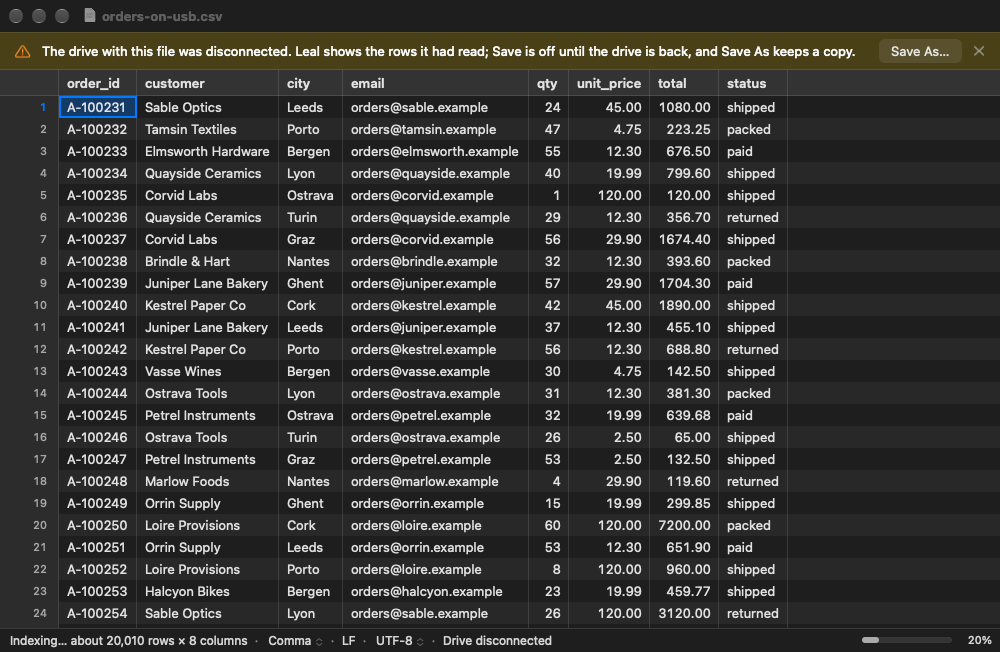
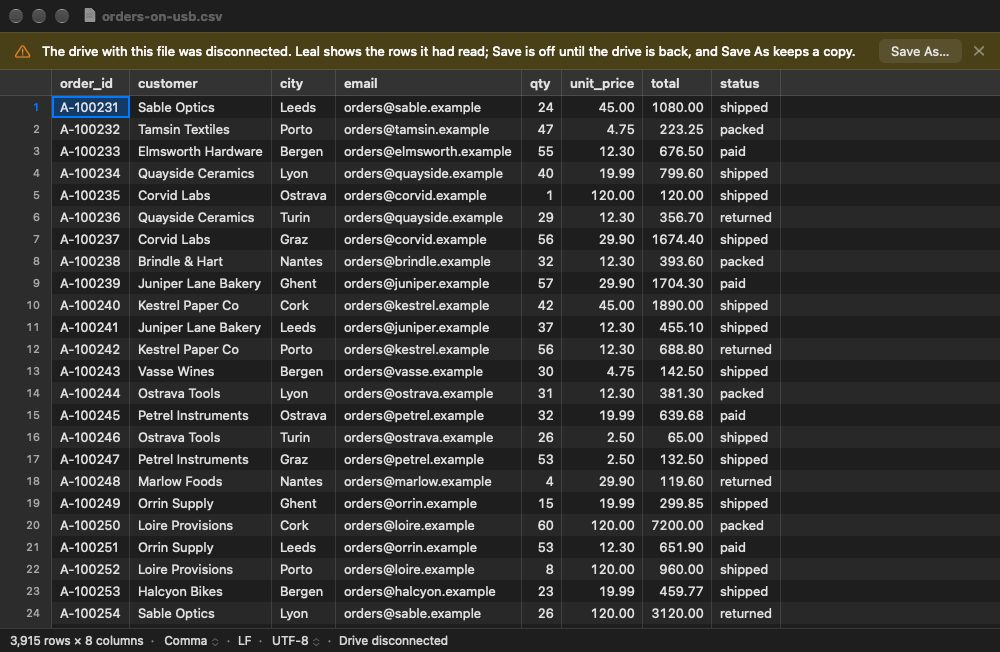
p1-review: Screenshots of the status bar notes, Drive not connected, Reload from Disk, Partly read and the controls turned off (review follow-up 5, cons-11)
Light and dark, added to docs/tasks/p1-gate-screenshots.md:
- the status bar's notes ("Working from a copy", "Encoding attribute
  ignored");
- "Drive not connected", from a real disk image ejected after the copy;
- File ▸ Reload from Disk, after another app changed the file;
- the "Partly read" banner;
- Treat As, Reopen with Encoding and the Header row turned off after a
  change while reading (the status bar's greyed menus, and View with its
  Treat As submenu).
The changed-while-reading and drive-disconnected shots are retaken after
follow-up 1: no "Indexing…" or stopped progress bar.

Scripted-run options for them (LEAL_BENCH only): -LealMainMenu (menus of
the menu bar, validated by the window; "_" for a space),
-LealSimulateReadError, and -LealSimulateFault none. MenuPicture now
draws key equivalents and submenu arrows and leaves out hidden and
alternate items.

Changed region(s): [[0.0, 0.1227, 0.806, 1.0], [0.961, 0.9509, 0.992, 1.0], [0.868, 0.9816, 0.899, 1.0]]

diff --git a/app/Sources/Bench/ScriptedRun.swift b/app/Sources/Bench/ScriptedRun.swift
@@ -39,7 +39,13 @@ import os
 ///   removable drive that vanishes, or whose file changes, at that byte
 ///   of the copy. Menus and sheets are windows of their own, which don't
 ///   draw offscreen: their content is drawn on a plain panel where they
-///   would be, as for the details popover.
+///   would be, as for the details popover. `-LealMainMenu File` (or
+///   paths such as `View,View/Treat_As`) draws menus of the menu bar, their
+///   items validated by the window, under the title bar;
+///   `-LealSimulateReadError YES` ends the index with a read error after
+///   first paint (`JobFailure.Failed`, the "Partly read" banner); and
+///   `-LealSimulateFault none` opens the file as if on a removable drive
+///   that doesn't fail.
 /// - `-LealReopen <n>`: once the document is indexed, close it and open
 ///   its file again, `n` times, then quit: each open's "Open to first rows"
 ///   signpost after the first is an open in a running app, without the
@@ -68,10 +74,11 @@ final class ScriptedRun {
         #if DEBUG
         guard let fault = defaults.string(forKey: "LealSimulateFault") else { return }
         let parts = fault.split(separator: ":")
-        guard parts.count == 2, let at = UInt64(parts[1]) else { return }
-        let simulated: SimulatedFault? = switch parts[0] {
-        case "disconnect": .disconnect(at: at)
-        case "change": .change(at: at)
+        guard fault == "none" || parts.count == 2, let at = parts.count == 2 ? UInt64(parts[1]) : 0 else { return }
+        let simulated: SimulatedFault?? = switch parts[0] {
+        case "disconnect": .some(.disconnect(at: at))
+        case "change": .some(.change(at: at))
+        case "none": .some(nil)
         default: nil
         }
         guard let simulated else { return }
@@ -202,6 +209,11 @@ final class ScriptedRun {
                 try? await Task.sleep(for: .milliseconds(20))
             }
         }
+        if has("LealSimulateReadError") {
+            // As if the drive had returned EIO part-way (app-8).
+            let model = content.model
+            model.jobEnded(JobFailure.Failed(message: "Input/output error"), job: .index, reading: model.readingID)
+        }
         if has("LealWaitForReview") {
             let deadline = Date().addingTimeInterval(30)
             while content.model.review == nil, Date() < deadline {
@@ -277,6 +289,31 @@ final class ScriptedRun {
                 panels.append((picture, NSRect(x: frame.minX - 8, y: frame.maxY + 4, width: size.width, height: size.height)))
             }
         }
+        if let paths = value(of: "LealMainMenu") {
+            // Each menu of the comma-separated paths, validated as the menu
+            // bar would (by the window's controller, where it handles the
+            // item); a submenu opens beside its item in the menu before it.
+            var frames: [String: NSRect] = [:]
+            for path in paths.split(separator: ",").map(String.init) {
+                guard let menu = Self.menu(at: path) else { continue }
+                for item in menu.items {
+                    if let action = item.action, content.responds(to: action) {
+                        item.isEnabled = content.validateMenuItem(item)
+                    }
+                }
+                let picture = MenuPicture(menu: menu)
+                let size = picture.frame.size
+                var frame = NSRect(x: 10, y: window.contentLayoutRect.maxY - size.height - 2, width: size.width, height: size.height)
+                let parentPath = path.split(separator: "/").dropLast().joined(separator: "/")
+                if let parent = frames[parentPath], let parentMenu = Self.menu(at: parentPath),
+                   let row = MenuPicture(menu: parentMenu).items.firstIndex(where: { $0.submenu === menu }) {
+                    let rowTop = parent.maxY - MenuPicture.inset - CGFloat(row) * MenuPicture.rowHeight
+                    frame.origin = NSPoint(x: parent.maxX - 4, y: rowTop + MenuPicture.inset - size.height)
+                }
+                frames[path] = frame
+                panels.append((picture, frame))
+            }
+        }
         if has("LealGoToRow") {
             // The sheet hangs from the title bar, in the middle.
             let (alert, _) = content.goToRowAlert()
@@ -289,6 +326,16 @@ final class ScriptedRun {
         }
         Snapshot.writePNG(of: window, panels: panels, to: url)
         Logger.open.info("Snapshot written to \(url.path(percentEncoded: false), privacy: .public)")
+    }
+
+    /// The menu bar's menu at `path`, such as `File` or `View/Treat_As`
+    /// ("_" for a space: `just snapshot` splits its options at spaces).
+    private static func menu(at path: String) -> NSMenu? {
+        var menu = NSApp.mainMenu
+        for title in path.split(separator: "/").map({ $0.replacingOccurrences(of: "_", with: " ") }) {
+            menu = menu?.items.first { $0.submenu?.title == title || $0.title == title }?.submenu
+        }
+        return menu
     }
 
     private static func write(_ result: [String: Any], to url: URL) {
@@ -307,18 +354,22 @@ final class ScriptedRun {
 /// mark by the item that is on, disabled items greyed.
 @MainActor
 final class MenuPicture: NSView {
-    private let shown: NSMenu
-    private static let rowHeight: CGFloat = 22
-    private static let inset: CGFloat = 5
+    /// The items a menu shows: not hidden ones, nor the alternates that
+    /// show only while Option is held.
+    let items: [NSMenuItem]
+    static let rowHeight: CGFloat = 22
+    static let inset: CGFloat = 5
     private static let checkWidth: CGFloat = 22
     private static var font: NSFont { .menuFont(ofSize: 0) }
 
     init(menu: NSMenu) {
-        self.shown = menu
-        let widest = menu.items.map { ($0.title as NSString).size(withAttributes: [.font: Self.font]).width }.max() ?? 0
+        items = menu.items.filter { !$0.isHidden && !$0.isAlternate }
+        let attributes: [NSAttributedString.Key: Any] = [.font: Self.font]
+        let widest = items.map { ($0.title as NSString).size(withAttributes: attributes).width }.max() ?? 0
+        let keys = items.map { (Self.keyText($0) as NSString).size(withAttributes: attributes).width }.max() ?? 0
         let size = NSSize(
-            width: (Self.checkWidth + widest + 24).rounded(.up),
-            height: CGFloat(menu.items.count) * Self.rowHeight + 2 * Self.inset
+            width: (Self.checkWidth + widest + (keys > 0 ? keys + 28 : 0) + 30).rounded(.up),
+            height: CGFloat(items.count) * Self.rowHeight + 2 * Self.inset
         )
         super.init(frame: NSRect(origin: .zero, size: size))
     }
@@ -330,8 +381,22 @@ final class MenuPicture: NSView {
 
     override var isFlipped: Bool { true }
 
+    /// An item's key equivalent as menus show it, such as "⌘O"; a submenu's
+    /// arrow.
+    private static func keyText(_ item: NSMenuItem) -> String {
+        if item.hasSubmenu { return "›" }
+        guard !item.keyEquivalent.isEmpty else { return "" }
+        let mask = item.keyEquivalentModifierMask
+        var text = ""
+        if mask.contains(.control) { text += "⌃" }
+        if mask.contains(.option) { text += "⌥" }
+        if mask.contains(.shift) || item.keyEquivalent != item.keyEquivalent.lowercased() { text += "⇧" }
+        if mask.contains(.command) { text += "⌘" }
+        return text + item.keyEquivalent.uppercased()
+    }
+
     override func draw(_ dirtyRect: NSRect) {
-        for (index, item) in shown.items.enumerated() {
+        for (index, item) in items.enumerated() {
             let top = Self.inset + CGFloat(index) * Self.rowHeight
             if item.isSeparatorItem {
                 NSColor.separatorColor.setFill()
@@ -346,6 +411,9 @@ final class MenuPicture: NSView {
                 ("✓" as NSString).draw(at: NSPoint(x: 8, y: y), withAttributes: attributes)
             }
             (item.title as NSString).draw(at: NSPoint(x: Self.checkWidth, y: y), withAttributes: attributes)
+            let key = Self.keyText(item) as NSString
+            let width = key.size(withAttributes: attributes).width
+            key.draw(at: NSPoint(x: bounds.width - 14 - width, y: y), withAttributes: attributes)
         }
     }
 }

diff --git a/docs/tasks/p1-gate-screenshots.md b/docs/tasks/p1-gate-screenshots.md
@@ -31,9 +31,10 @@ names, `.example` e-mail addresses, and nothing from a real file.
   window, as in 1.6's 06a shot.
 
 New options for the scripted run (`ScriptedRun`, `LEAL_BENCH` builds only):
-`-LealMenu treatAs|reopen`, `-LealGoToRow YES`, `-LealFindWrap YES`,
-`-LealWaitForReview YES` and, in Debug, `-LealSimulateFault
-disconnect:<byte>|change:<byte>`. `-LealWaitForChange YES` also waits for a
+`-LealMenu treatAs|reopen`, `-LealMainMenu File` (or `View,View/Treat_As`),
+`-LealGoToRow YES`, `-LealFindWrap YES`, `-LealWaitForReview YES` and, in
+Debug, `-LealSimulateFault disconnect:<byte>|change:<byte>|none` and
+`-LealSimulateReadError YES`. `-LealWaitForChange YES` also waits for a
 disconnected drive. For example:
 
 ```sh
@@ -67,9 +68,20 @@ UTF-8.
 | Drive disconnected part-way: **Save As…**, "Drive disconnected" in the status bar | ![](p1-gate-drive-disconnected-light.png) | ![](p1-gate-drive-disconnected-dark.png) |
 | Changed while reading: **Reload**, "Changed while reading" | ![](p1-gate-changed-while-reading-light.png) | ![](p1-gate-changed-while-reading-dark.png) |
 
-While the drive is away, the status bar still says "Indexing… about N
-rows", with its progress bar stopped. That is as built in 1.7: the drive
-may come back and the index carry on.
+Since the review's follow-up, neither shows "Indexing…" with a stopped
+progress bar any more. The counts are the rows read, and no skeleton
+rows follow them. These shots were retaken after that change.
+
+| | Light | Dark |
+|---|---|---|
+| A read error stopped the index (app-8): "Leal couldn’t read the rest of this file…", **Reload**, "Partly read" in the status bar | ![](p1-gate-partly-read-light.png) | ![](p1-gate-partly-read-dark.png) |
+| After a change while reading, reading the file another way is off until Reload. The status bar's delimiter and encoding menus are greyed, and so are View ▸ Use First Row as Header and Treat As's items. Their tooltip (not shown) says "The file changed while Leal was reading it. Reload it first." | ![](p1-gate-reread-off-light.png) | ![](p1-gate-reread-off-dark.png) |
+| "Drive not connected": a real disk image, ejected after Leal had copied the file. There is no banner, only the note; Save is off until the drive is back | ![](p1-gate-drive-not-connected-light.png) | ![](p1-gate-drive-not-connected-dark.png) |
+
+The "Partly read" state comes from the scripted run, which ends the index
+with a read error just after first paint, the way the hosted test does.
+The core has no hook to make a real read fail. Its count is the whole
+file's, because the real index went on in the background of the shot.
 
 ## The file changed or deleted elsewhere (task 1.9)
 
@@ -80,6 +92,18 @@ These replace 1.9's shots, which had no dark deleted banner.
 | Changed on disk: **Reload**, **Keep Editing** | ![](p1-gate-changed-on-disk-light.png) | ![](p1-gate-changed-on-disk-dark.png) |
 | Deleted: **Save As…**, **Keep Editing** | ![](p1-gate-deleted-light.png) | ![](p1-gate-deleted-dark.png) |
 
+## Status bar notes and File ▸ Reload from Disk
+
+| | Light | Dark |
+|---|---|---|
+| Notes: "Working from a copy" (a file opened from a removable drive) and "Encoding attribute ignored" (an unsupported `com.apple.TextEncoding`). Their tooltips (not shown) say why | ![](p1-gate-status-notes-light.png) | ![](p1-gate-status-notes-dark.png) |
+| File ▸ **Reload from Disk**, after another app changed the file | ![](p1-gate-reload-menu-light.png) | ![](p1-gate-reload-menu-dark.png) |
+
+The other notes have no layout of their own: "Read into memory", "Reading
+from the drive" (shown only until the copy is done), "Remembered settings
+ignored" and "Changed on disk" (above). The status bar tests (`StatusText`)
+cover their words.
+
 ## Find and Go to Row (task 1.8)
 
 | | Light | Dark |
@@ -88,12 +112,3 @@ These replace 1.9's shots, which had no dark deleted banner.
 | Find's "wrapped" sign, after ⇧⌘G went back past the first match to the last | ![](p1-gate-find-wrapped-light.png) | ![](p1-gate-find-wrapped-dark.png) |
 
 The Go to Row sheet shows the generic icon: Leal has no app icon yet.
-
-## Not shown here
-
-The phase 1 review's list also named the unsupported or unreadable
-attribute notes, the Memory, Copy and Reading notes, the "Drive not
-connected" note and File ▸ Reload from Disk. These are status bar text and a
-menu item with no layout of their own. The notes are covered by the status
-bar tests (`StatusText`), and "Working from a copy" shows in the hosted
-removable-drive test.
